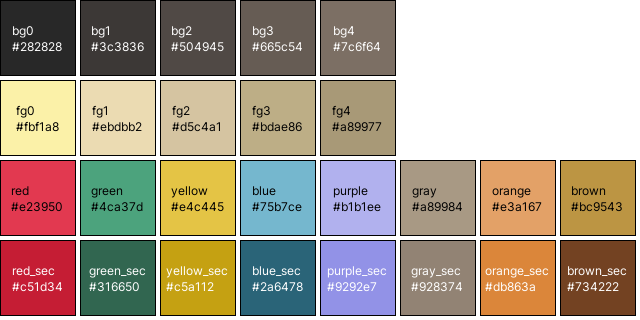
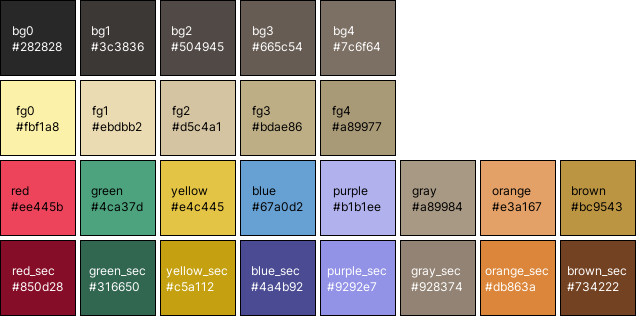
fixed some colors, added some color studies

diff --git a/hackdornfish_dark.css b/hackdornfish_dark.css
@@ -10,19 +10,19 @@
 @define-color fg3 #bdae86;
 @define-color fg4 #a89977;
 
-@define-color red    #e23950;
+@define-color red    #ee445b;
 @define-color green  #4ca37d;
 @define-color yellow #e4c445;
-@define-color blue   #75b7ce;
+@define-color blue   #67a0d2;
 @define-color purple #b1b1ee;
 @define-color gray   #a89984;
 @define-color orange #e3a167;
 @define-color brown  #bc9543;
 
-@define-color red_sec       #c51d34;
+@define-color red_sec       #850d28;
 @define-color green_sec     #316650;
 @define-color yellow_sec    #c5a112;
-@define-color blue_sec      #2a6478;
+@define-color blue_sec      #4a4b92;
 @define-color purple_sec    #9292e7;
 @define-color gray_sec      #928374;
 @define-color orange_sec    #db863a;

diff --git a/hackdornfish_light.css b/hackdornfish_light.css
@@ -11,19 +11,19 @@
 @define-color fg3  #665c54;
 @define-color fg4  #7c6f64;
 
-@define-color red    #c51d34;
+@define-color red    #850d28;
 @define-color green  #316650;
 @define-color yellow #c5a112;
-@define-color blue   #2a6478;
+@define-color blue   #4a4b92;
 @define-color purple #9292e7;
 @define-color gray   #928374;
 @define-color orange #db863a;
 @define-color brown  #734222;
 
-@define-color red_sec    #e23950;
+@define-color red_sec    #ee445b;
 @define-color gree_sec  #4ca37d;
 @define-color yellow_sec #e4c445;
-@define-color blue_sec   #75b7ce;
+@define-color blue_sec   #67a0d2;
 @define-color purple_sec #b1b1ee;
 @define-color gray_sec   #a89984;
 @define-color orange_sec #e3a167;
